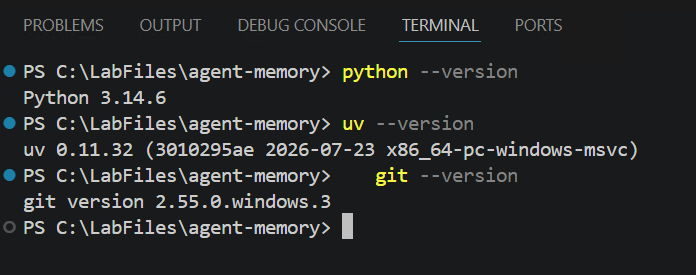
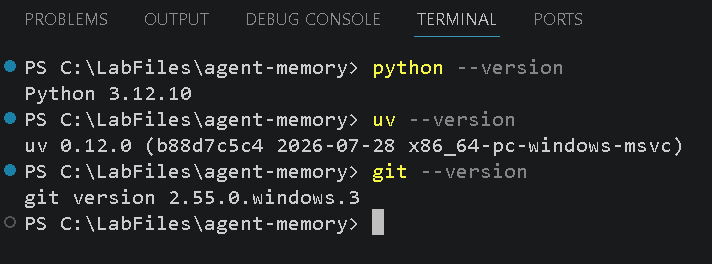
exercise 1 updated

diff --git a/Instructions/exercise-1-environment-setup-local-memory.md b/Instructions/exercise-1-environment-setup-local-memory.md
@@ -64,12 +64,6 @@ In this task, you will verify that the required development tools are available,
    - **server/** includes components used when exposing Agent Memory as a service.
    - **tests/** contains automated tests that validate the functionality of the project.
 
-1. Open **demo/README.md** and take a moment to review the demo matrix table — it maps each numbered demo script/notebook to the feature it showcases.
-
-   ![](./Images/ETS119.png)
-
-   > **Tip**: Reviewing the project documentation before running the notebooks is a good practice, as it provides context about the examples you will execute during the lab.
-
 1. Click on the **ellipsis (...) (1)** in the top menu, then select **Terminal (2)** and click **New Terminal (3)**.
 
    ![](./Images/ETS117.png)
@@ -92,7 +86,7 @@ In this task, you will navigate to the pre-created Azure OpenAI resource, open i
 
 > **Note:** The Azure OpenAI resource and its model deployments have already been created in this lab environment — you do not need to create any new resources.
 
-1. On the **Microsoft Edge** browser,go to **Azure portal**. In the search bar at the top, search for **Azure OpenAI (1)**, and select **Azure OpenAI (2)** from the **Services** section.
+1. On the **Microsoft Edge** browser, go to **Azure portal**. In the search bar at the top, search for **Azure OpenAI (1)**, and select **Azure OpenAI (2)** from the **Services** section.
 
    ![](./Images/ETS1111.png)
 
@@ -102,7 +96,7 @@ In this task, you will navigate to the pre-created Azure OpenAI resource, open i
 
 1. From the left navigation pane, expand **Resource Management** and then select **Keys and Endpoint (1)**. 
 
-1. Copy the **Endpoint (2)** and paste it into Notepad for later use:
+1. Copy the **Endpoint (2)** and paste it into Notepad for later use.
 
 1. Copy the **KEY 1 (3)** and paste it into Notepad for later use.
 
@@ -127,7 +121,7 @@ In this task, you will navigate to the pre-created Azure OpenAI resource, open i
 
 ## Task 3: Install Dependencies & Run Basic Demo
 
-In this task, you will install the project dependencies, open the `01_basic_memory.ipynb` notebook, select the correct kernel, and execute the setup, initialization, and Session 1 cells while understanding exactly what each one does.
+In this task, you will install the project dependencies, open the `01_basic_memory.ipynb` notebook, select the Python kernel, and execute the setup, initialization, and Session 1 cells to understand how Agent Memory stores conversations, manages the memory buffer, and prepares data for long-term recall.
 
 1. In the Visual Studio Code **terminal**, run the below command from the project root to install all dependencies:
 
@@ -137,21 +131,13 @@ In this task, you will install the project dependencies, open the `01_basic_memo
 
    ![](./Images/ETS131.png)
 
-   > **Note:** This can take 5–10 minutes to complete. Wait for the command execution to complete, then proceed ahead.
+   > **Note:** This can take 10–15 minutes to complete. Wait for the command execution to complete, then proceed ahead.
 
 1. In the Explorer pane, navigate to the  **notebooks (1)** folder and open the **01_basic_memory.ipynb (2)** file.
 
    ![](./Images/ETS133.png)
 
-1. The notebook introduces the key capabilities that you will explore throughout this exercise, including:
-
-   - Creating and storing conversations
-   - Managing active conversation memory
-   - Automatic summarization
-   - Cross-session memory retrieval
-   - Semantic search using embeddings
-
-   Throughout this exercise, the notebook uses **SQLite** as the local memory store, allowing you to observe how Agent Memory behaves without requiring any additional database configuration.
+1. Read the **01 Basic Agent Memory Demo** markdown cell to understand the key Agent Memory capabilities demonstrated in this notebook, including conversation storage, active memory management, automatic summarization, cross-session recall, and semantic search using **SQLite** as the local memory backend.
 
       ![](./Images/ETS132.png)
 
@@ -159,9 +145,9 @@ In this task, you will install the project dependencies, open the `01_basic_memo
 
    ![](./Images/ETS134.png)
 
-1. Wait for the Python extension to be installed.
+1. Wait for the Python and Jupyter extensions to be installed.
 
-   > **Note:** This can take 5–10 minutes to complete. Wait for the command execution to complete, then proceed ahead.
+   > **Note:** This can take 5–10 minutes to complete. Wait for the installation to complete, then proceed ahead.
 
 1. Once the Python extension is installed, click on **Select Kernel (1)** then select **Python Environments (2)** 
 
@@ -171,125 +157,61 @@ In this task, you will install the project dependencies, open the `01_basic_memo
 
    ![](./Images/ETS136.png)
 
-1. Run the first code cell under **Step 1: Setup and Configuration**.
+1. Scroll down to **Step 1: Setup and Configuration** and click **Run (▶)** to execute the first code cell. This cell prepares the notebook environment before running the Agent Memory demonstrations by importing the required libraries, locating the project directory, loading the Azure OpenAI configuration from the **.env** file, configuring the demo settings, and creating a fresh **SQLite** database for the exercise.
 
    ![](./Images/ETS137.png)
 
-   This cell prepares the notebook environment before any Agent Memory operations begin.
-
-   During execution, the notebook:
-
-   - Imports the required Python libraries.
-   - Locates the project root directory.
-   - Loads the Azure OpenAI configuration from the **.env** file.
-   - Defines the user identifier used throughout the demonstration.
-   - Creates a fresh SQLite database for the demo by removing any previous database file.
-
-   These initialization steps ensure that every notebook execution starts with a clean environment.
-
-   After the cell completes successfully, verify that the following message appears:
-
-   ✅ Step 1 Complete: `All imports and paths configured!`
+1. After the cell executes successfully, verify that the output confirms the project paths and environment configuration, and displays the message **"✅ Step 1 Complete: All imports and paths configured!"**, as shown in the following image.
 
       ![](./Images/ETS138.png)
 
-1. Run the next code cell under **Step 2: Initialize AgentMemory**. This cell creates the memory system itself:
+1. Scroll down to **Step 2: Initialize AgentMemory with Buffer Configuration** and click **Run (▶)** to execute the code cell. This cell initializes the **Azure OpenAI** client, validates the required environment variables, creates the **Agent Memory** configuration, initializes the local **SQLite** memory database, and connects Agent Memory with Azure OpenAI.
 
    ![](./Images/ETS139.png)
 
-   During execution, the notebook:
+1. After the cell executes successfully, verify that the output confirms the Azure OpenAI client and Agent Memory were initialized successfully, and displays the message **"✅ AgentMemory initialized and ready!"**, as shown in the following image.
 
-   - Creates the Azure OpenAI client.
-   - Validates the required environment variables.
-   - Initializes the local SQLite memory database.
-   - Creates the Agent Memory configuration.
-   - Connects the memory engine with Azure OpenAI.
+   ![](./Images/ETS1310.png)
 
-   #### Understanding Memory Configuration
+   > **Important:**  Agent Memory uses a configurable conversation buffer to efficiently manage long-running conversations.
+   > - **buffer_size** specifies the maximum number of conversation turns before automatic summarization begins.
+   > - **active_turns** determines how many of the most recent conversation turns remain available in their original form.
+   > - **longterm_synthesis_frequency** controls how often long-term insights are generated from completed conversations.
+   > As conversations grow, older interactions are automatically summarized while recent messages remain available. This helps preserve important context without exceeding the model's context window.
 
-   Agent Memory maintains a configurable conversation buffer to efficiently manage long conversations.
+1. Scroll down to **Step 3: Session 1 – Multi-Turn Conversation with Buffer Pruning** and click **Run (▶)** to execute the code cell. This cell starts a new conversation session and processes a predefined **eight-turn conversation**. During execution, Agent Memory stores each user and assistant interaction, monitors the configured memory buffer, automatically summarizes older conversation turns when the buffer limit is reached, and generates long-term insights for future retrieval.
 
-   The notebook initializes the following configuration:
+   ![](./Images/ETS1312.png)
 
-   - **buffer_size** determines how many conversation turns are retained before summarization begins.
-   - **active_turns** specifies how many of the most recent conversation turns remain available in their original form.
-   - **longterm_synthesis_frequency** controls how frequently long-term insights are generated from completed conversations.
+1. After the cell executes successfully, verify that the output shows the conversation session has started, the buffer configuration has been applied, and the conversation turns are being processed, as shown in the following image.
 
-   As conversations become longer, older interactions are summarized automatically while recent messages remain available, allowing the AI application to preserve important context without exceeding the model's context window.
+   ![](./Images/ETS1313.png)
 
-   After the initialization completes successfully, verify that the following message appears:
+   > **Important:** Agent Memory continuously monitors the configured **buffer_size** as the conversation grows. When the buffer reaches its limit, older conversation turns are automatically summarized while the most recent turns remain available in their original form. This allows the application to preserve important context without exceeding the model's context window.
 
-   You should see: `✅ AgentMemory initialized and ready!`
-      
-      ![](./Images/ETS1310.png)
+   > **Note:** To view the complete output, scroll to the bottom of the cell output and click **scrollable element**, as shown in the following image.
 
-1. Run the next code cell under **Step 3: Session 1 — Multi-Turn Conversation with Buffer Pruning**. This is the main demonstration:
-
-      ![](./Images/ETS1312.png)
-
-   This section demonstrates how Agent Memory stores a conversation while automatically managing its memory buffer.
-
-   The notebook performs the following operations:
-
-   - Starts a new conversation session.
-   - Processes a predefined eight-turn conversation.
-   - Stores every user and assistant interaction.
-   - Monitors the configured memory buffer.
-   - Automatically summarizes older conversation turns when the buffer limit is reached.
-   - Generates the final conversation context for future retrieval.
-
-   As additional messages are stored, Agent Memory continuously evaluates the configured buffer size. Once the buffer reaches its threshold, earlier interactions are condensed into a summary while the most recent conversations remain unchanged.
-
-   This approach enables the application to retain important information while keeping the active context compact and efficient.
-
-
-      ![](./Images/ETS1313.png)
-
-      >**Note**: To verify the complete output block, scroll down to the end of the output and click on **scrollable element**.
-
-      ![](./Images/ETS1314.png)
+   ![](./Images/ETS1314.png)
 
 ## Task 4: Observe Memory Behavior
 
-In this task, you will explore how Agent Memory retrieves information across multiple sessions and performs semantic search on previously stored conversations. These capabilities enable AI applications to remember important information beyond a single conversation, providing more intelligent and context-aware responses.
+In this task, you will observe how Agent Memory retrieves information from previous sessions and uses semantic search to find relevant conversations. These capabilities help AI agents maintain context and deliver more relevant responses over time.
 
+1. Scroll down to **Step 4: Cross-Session Memory Recall** and click **Run (▶)** to execute the code cell. This cell starts a new session and automatically retrieves the conversation summaries and long-term insights generated during **Session 1**, demonstrating cross-session memory recall.
 
-1. Run the next code cell under **Step 4: Cross-Session Memory Recall**. This proves persistence across sessions:
+   ![](./Images/ETS1315.png)
 
-      ![](./Images/ETS1315.png)
+1. After the cell executes successfully, verify that the previous conversation context is loaded and the message **"✅ Cross-Session Memory Loaded!"** is displayed, as shown in the following image.
 
-   This demonstration starts a **new conversation session** for the same user while retrieving relevant information stored during the previous session.
+   ![](./Images/ETS1316.png)
 
-   During execution, the notebook performs the following actions:
+1. Scroll down to **Step 5: Semantic Search Demonstration** and click **Run (▶)** to execute the code cell. This cell performs semantic searches across the stored conversations by comparing the meaning of each query with previously stored memories, demonstrating how Agent Memory retrieves relevant information beyond exact keyword matches.
 
-   - Creates a new session for the existing user.
-   - Retrieves the conversation context from previous sessions.
-   - Loads previously generated conversation summaries.
-   - Retrieves long-term insights extracted from earlier interactions.
-   - Combines this information into a single context that can be used by the language model.
+   ![](./Images/ETS1317.png)
 
-   Verify in the preview that details from the book conversation (Session 1) are present even though this session has stored nothing yet.
+1. After the cell executes successfully, verify that the semantic search results are returned for each query and that the notebook ends with the message **"🎉 NOTEBOOK COMPLETE!"**, as shown in the following image.
 
-      ![](./Images/ETS1316.png)
-
-1. Run the final code cell under **Step 5: Semantic Search Demonstration**. This shows retrieval by meaning rather than keywords:
-
-      ![](./Images/ETS1317.png)
-
-   This cell demonstrates how Agent Memory searches previously stored conversations using vector embeddings.
-
-   During execution, the notebook:
-
-   - Creates multiple semantic search queries.
-   - Searches previously stored interactions.
-   - Retrieves the most relevant conversations.
-   - Displays the search results for each query.
-
-   Rather than searching for exact keywords, semantic search compares the meaning of the query with previously stored conversations, making retrieval significantly more intelligent.
-
-   You should see the output ending with: `🎉 NOTEBOOK COMPLETE!`
-
-      ![](./Images/ETS1318.png)
+   ![](./Images/ETS1318.png)
 
 ## Task 5: Explore Memory Configuration Tuning (Optional)
 
@@ -297,45 +219,37 @@ In this task, you will adjust the key memory configuration parameters in the not
 
 1. In the notebook, scroll to the **Step 2: Initialize AgentMemory** code cell and locate the **AgentMemoryConfig** block:
 
-   ```
-   config = AgentMemoryConfig(
-       buffer_size=6,
-       active_turns=4,
-       longterm_synthesis_frequency=1,
-   )
-   ```
-      ![](./Images/ETS1319.png)
-
+   ![](./Images/ETS155.png)
 
 1. Change **buffer_size** to a lower value, such as `3`, and **active_turns** to `2`.
 
-1. Restart the kernel by clicking **Restart** in the notebook toolbar and then **Run all** to execute all the cells from the top
+   ![](./Images/ETS154.png)
+
+1. Restart the kernel by clicking **Restart (1)** in the notebook toolbar and then **Run all (2)** to execute all the cells from the top
+
+   ![](./Images/ETS1320.png)
 
    > **Note:** Restarting is required — the memory object and configuration are created at cell execution time, so edits do not take effect on an already-running kernel state.
 
-      ![](./Images/ETS1320.png)
-
 1. Observe in the **Step 3** output how **summarization triggers earlier** than in the previous run — the buffer now fills after only 3 turns, so pruning happens much sooner in the 8-turn conversation, and only the last 2 turns remain verbatim.
 
-1. Next, experiment with **longterm_synthesis_frequency** — this controls how often insights are extracted at session end. Re-run and note the effect on the insight generation messages in the output.
+   ![](./Images/ETS151.png)
 
-1. After observing the differences, revert all values to their defaults (`buffer_size=6`, `active_turns=4`, `longterm_synthesis_frequency=1`), restart the kernel, and re-run the notebook once more to leave the environment in a clean state.
+   > **Note:** The remaining turns after pruning may not always exactly match the configured **`active_turns`** value. This is expected behavior based on Agent Memory's internal buffer management.
 
-   > **Note:** These same parameters appear again as production tuning knobs in a later exercise, so keep a note of what each one controls.
+1. Next, change **`longterm_synthesis_frequency`** to **`2`** and re-run the notebook. Notice that no long-term synthesis is generated after **Session 1**, as insights are created only after every **two completed sessions**.
+
+   ![](./Images/ETS153.png)
+      
+   ![](./Images/ETS152.png)
+
+1. After observing the differences, revert all values to their defaults (`buffer_size=6`, `active_turns=4`, `longterm_synthesis_frequency=1`) and save it by clicking on **CTRL + S**
+
+   ![](./Images/ETS155.png)
 
 ## 🧾 Summary
 
-In this exercise, you prepared the local development environment and explored the core capabilities of the Agent Memory framework using a **SQLite local memory store**.
-
-You accomplished the following:
-
-- Verified the required development tools and explored the project structure.
-- Configured the project to connect with the pre-provisioned Azure OpenAI resource.
-- Installed the required project dependencies.
-- Executed the **01_basic_memory.ipynb** notebook in Visual Studio Code.
-- Observed how Agent Memory stores conversations and automatically manages the active memory buffer.
-- Explored cross-session memory retrieval and semantic search using vector embeddings.
-- Experimented with memory configuration settings and observed how they influence conversation summarization and long-term insight generation.
+In this exercise, you prepared the local development environment and explored the core capabilities of the Agent Memory framework using a **SQLite** local memory store. You verified the required tools, configured the project to use the pre-provisioned Azure OpenAI resource, installed the project dependencies, and successfully executed the **01_basic_memory.ipynb** notebook in Visual Studio Code. You also observed how Agent Memory stores conversations, manages the active memory buffer, retrieves information across multiple sessions, and performs semantic search using vector embeddings. Finally, you experimented with key memory configuration settings to understand how they affect conversation summarization and long-term insight generation.
 
 You have successfully completed this exercise. Select **Next >>** to continue to the next exercise.
 

diff --git a/Instructions/GettingStarted.md b/Instructions/GettingStarted.md
@@ -41,17 +41,11 @@ This lab is designed to provide participants with hands-on experience in buildin
 ## ⚙ Prerequisites
 
 Participants should have:
-
 - An active **Microsoft Azure subscription** with access to Azure OpenAI and Azure Cosmos DB resources pre-provisioned in the lab.
-
 - **Python 3.12 or later** installed on the lab VM.
-
 - **Visual Studio Code** with the Python and Jupyter extensions.
-
 - **Basic Python knowledge** working with environment variables, and running scripts from the command line using `uv`.
-
 - **Familiarity with Azure OpenAI** — basic understanding of how Azure OpenAI works and how to navigate the Azure Portal to locate resources and credentials.
-
 - No prior Agent Memory experience required — the lab introduces all framework concepts from scratch.
 
 ## 🏗 Architecture
@@ -88,7 +82,7 @@ Welcome to the Advanced Dynamic Memory Architecture — Agent Memory Workshop!. 
 
 Once you are ready to dive in, your virtual machine and guide will be right at your fingertips within your web browser.
  
-![Access Your VM and Lab Guide](./Images/a2.png)
+![Access Your VM and Lab Guide](./Images/a1.png)
 
 ## Lab Guide Zoom In/Zoom Out
 
